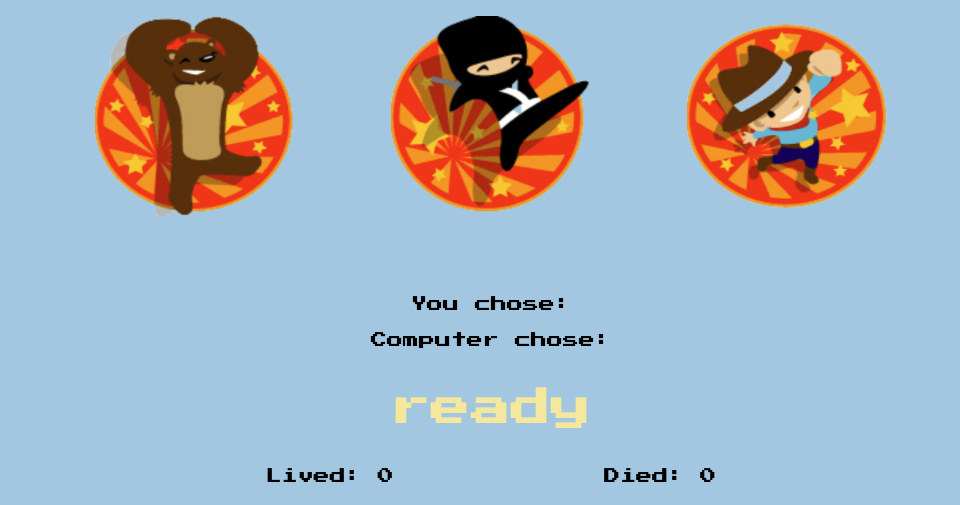
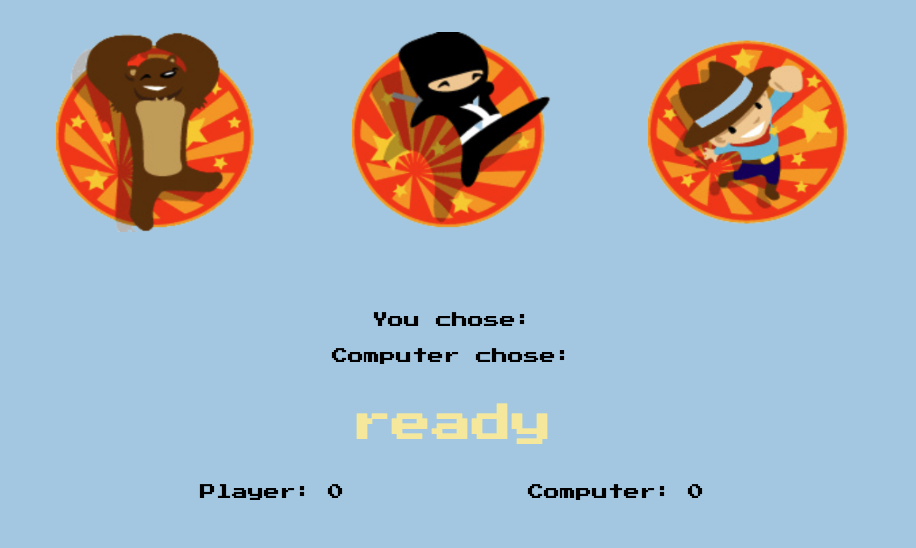
Add media queries for mobile device

diff --git a/assets/css/style.css b/assets/css/style.css
@@ -113,11 +113,35 @@ footer div {
 @media screen and (max-width: 950px) {
 
     .heading {
-    font-size: 30px;
-    margin: 20px auto;
+        font-size: 30px;
+        margin: 20px auto;
+    }
+    
+    button {
+        margin: 10px;
     }
 
-    #rules > p {
-    font-size: 12px;
+    .subheading {
+        margin: 20px auto;
+    }
+
+    footer {
+        flex-shrink: 0;
+        height: 120px;
+        background-color: #F76C6C;
+        display: block;
+        justify-content: center;
+        align-items: center;
+    }
+
+    .selection-area img {
+        height: 150px;
+        width: 150px;
+    }
+
+    button {
+        height: 150px;
+        width: 150px;
+        margin: 20px;
     }
 }

diff --git a/index.html b/index.html
@@ -38,8 +38,8 @@
             <p id="ready">ready</p> 
         </div>
         <div class="score-area">
-            <p>Lived: <span id="playerScore">0</span></p>
-            <p>Died: <span id="computerScore">0</span></p>
+            <p>Player: <span id="playerScore">0</span></p>
+            <p>Computer: <span id="computerScore">0</span></p>
         </div>
     </div>    
 

diff --git a/README.md b/README.md
@@ -1,6 +1,6 @@
 # Bear.Ninja.Hunter
 
-Bear.Ninja.Hunter is a web browser based rock, paper, scissors type retro arcade game. In this case I'm using bear, ninja, hunter (bear eats ninja, ninja kills hunter, hunter shoots bear). The player wins the round if they reach 5 points before the computer does. 
+Bear.Ninja.Hunter is a web browser based rock, paper, scissors type game. In this case bear eats ninja, ninja kills hunter and hunter shoots bear. It's a simple retro styled arcade game designed to give the user a relaxing gaming experience while enjoying nostalgic graphics and soothing colours. When the player or the computer wins 5 points, the winner is declared and the scores are reset. Whether you're a kid playing at home on an iPad, or an office worker looking for a quick distraction at work, this game has got you covered!
 
 # UX
 
@@ -14,7 +14,7 @@ While the game required minimal interface between the user and the computer, sim
 
 **Imagery**
 
-WHen hovered over, the images are enlarged. Whenever a character loses a turn, their image will be replaced with a corresponding 'sad' image.
+When hovered over, the images are enlarged. Whenever a character loses a turn, their image will be replaced with a corresponding 'sad' image.
 
 **Fonts**
 
@@ -34,13 +34,13 @@ The rest of the text is plain black.
 
 * **Header**
 
-    - The game has a simple header with the title of the game. The subheading reminds the player that they're supposed to make a choice to play. 
+    - The game has a simple header with the title of the game and a subheading that reminds the player that they have to make a choice to start the game.
 
 ![header](assets/images-readme/header.png)
 
 * **Game Area**
 
-    - The game area consists of the selection area, where the images represent the choices the player can make. Underneath that, the outcomes and scores are displayed.
+    - The game area consists of the selection area, where the images represent the choices the player can make. Underneath that, the outcomes and scores are displayed, along with some text declaring the winner/loser.
 
 ![game area](assets/images-readme/game-area.png) 
 
@@ -52,7 +52,7 @@ The rest of the text is plain black.
 
 # Game functionality
 
-This game is created with JavaScript. The player is able to play against the computer using a combination of functions. The computer randomly generates a number between 1-3 whenever the player clicks on their choice. This number is assigned a choice, and a winner is declared for each point. When the player or the computer reaches 5 points, the round winner is declared, and the points reset. For interactivity, sound effects are added when a player wins a point, and the images are enlarged when hovered over. 
+This game is created using JavaScript. The player is able to play against the computer using a combination of functions. The computer randomly generates a number between 1-3 whenever the player clicks on their choice. This number is assigned a choice, and a winner is declared for each point. When the player or the computer reaches 5 points, the round winner is declared, and the points reset. For interactivity, sound effects are added when a player wins a point, and the images are enlarged when hovered over. 
 
 # Deployment
 
@@ -60,7 +60,7 @@ This website has been deployed to GitHub using the following steps:
 
 1. Within the Github repository, navigate to the settings tab.
 2. From the source section drop-down menu, select the main branch.
-3. Press save to receive a link to the completed website - [Live on Mars](https://axelzwaans.github.io/live-on-mars/)
+3. Press save to receive a link to the completed website - [bear.ninja.hunter](https://axelzwaans.github.io/bear.ninja.hunter/)
 
 # Testing
 
